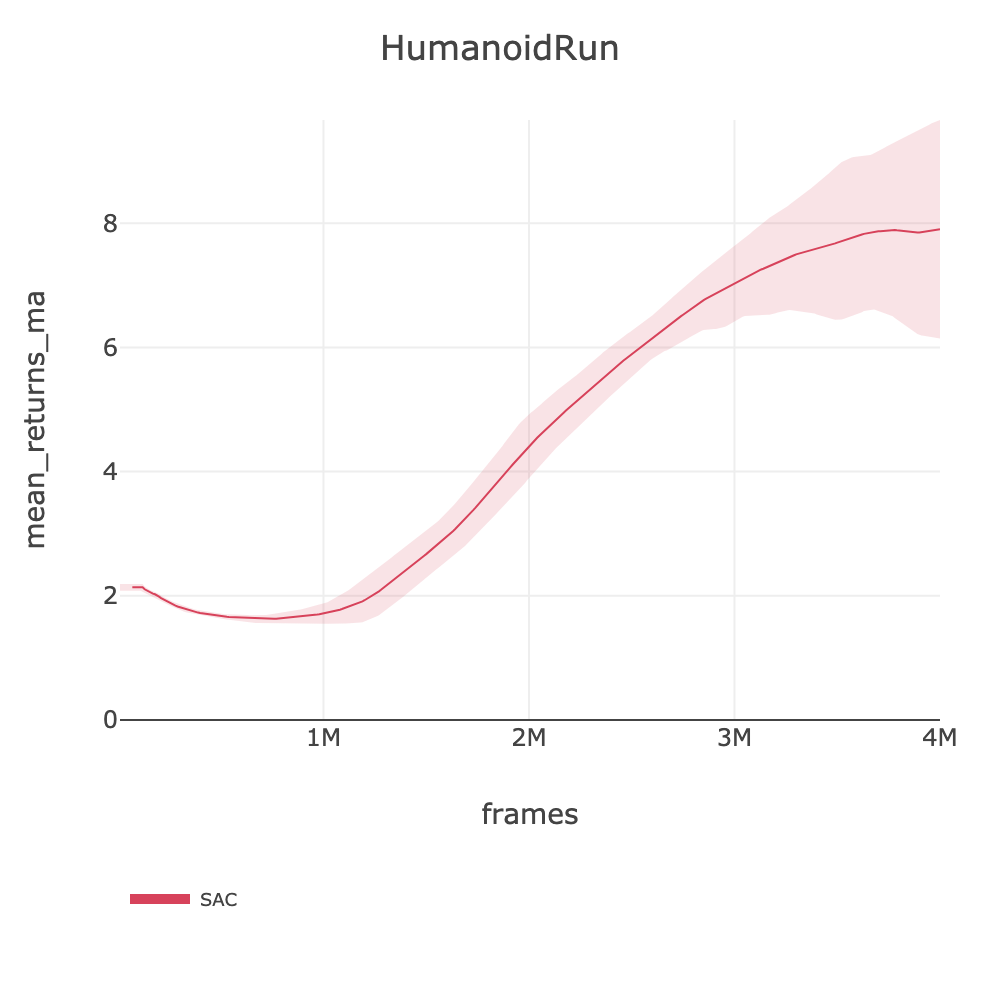
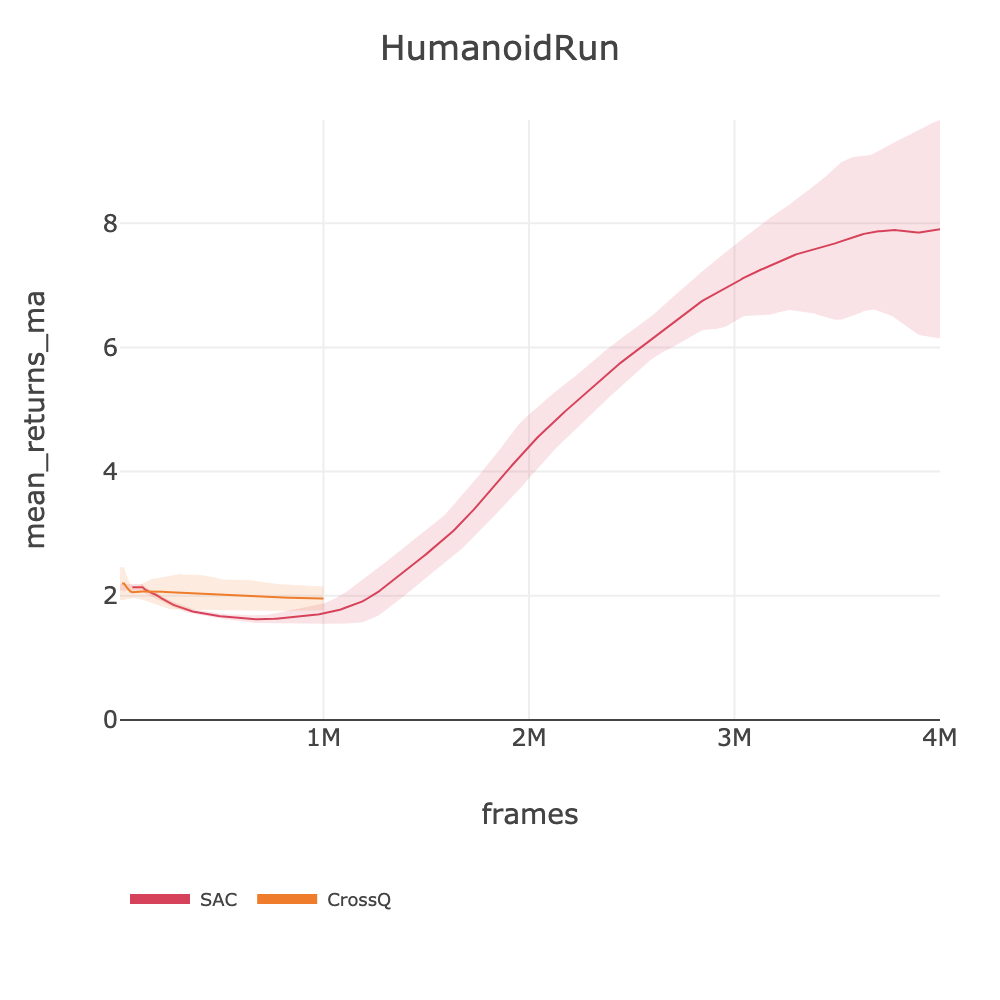
feat: Phase 5 CrossQ HumanoidRun (1.96) + updated plots

Changed region(s): [[0.124, 0.558, 0.341, 0.62], [0.248, 0.868, 0.31, 0.93], [0.341, 0.899, 0.372, 0.93]]

diff --git a/docs/BENCHMARKS.md b/docs/BENCHMARKS.md
@@ -826,7 +826,8 @@ source .env && slm-lab run-remote --gpu -s env=playground/CartpoleBalance -s max
 | playground/HopperStand | PPO | 158.28 | ~645 | ~300 (16e) | 4M | ~3.7h | [ppo_playground_arc_hopperstand_2026_03_07_124451](https://huggingface.co/datasets/SLM-Lab/benchmark-dev/tree/main/data/ppo_playground_arc_hopperstand_2026_03_07_124451) |
 | | CrossQ | 147.77 | | ~200 (hard/16e) | 2M | ~2.8h | [crossq_playground_arc_hard_hopperstand_2026_03_07_184954](https://huggingface.co/datasets/SLM-Lab/benchmark-dev/tree/main/data/crossq_playground_arc_hard_hopperstand_2026_03_07_184954) |
 | | SAC | 277.46 | | ~350 (fast/64e) | 1M | ~0.8h | [sac_playground_arc_hopperstand_2026_03_06_125934](https://huggingface.co/datasets/SLM-Lab/benchmark-dev/tree/main/data/sac_playground_arc_hopperstand_2026_03_06_125934) |
-| playground/HumanoidRun | SAC | 7.90 | ~11 | ~335 (fast/64e) | 4M | ~3.4h | [sac_playground_arc_fast_humanoidrun_2026_03_07_001036](https://huggingface.co/datasets/SLM-Lab/benchmark-dev/tree/main/data/sac_playground_arc_fast_humanoidrun_2026_03_07_001036) |
+| playground/HumanoidRun | CrossQ | 1.96 | ~11 | ~189 (vhard/16e) | 1M | ~1.5h | [crossq_playground_arc_vhard_humanoidrun_2026_03_07_210456](https://huggingface.co/datasets/SLM-Lab/benchmark-dev/tree/main/data/crossq_playground_arc_vhard_humanoidrun_2026_03_07_210456) |
+| | SAC | 7.90 | | ~335 (fast/64e) | 4M | ~3.4h | [sac_playground_arc_fast_humanoidrun_2026_03_07_001036](https://huggingface.co/datasets/SLM-Lab/benchmark-dev/tree/main/data/sac_playground_arc_fast_humanoidrun_2026_03_07_001036) |
 | playground/HumanoidStand | PPO | 11.89 | ~514 | ~300 (16e) | 4M | ~3.7h | [ppo_playground_arc_humanoidstand_2026_03_07_133528](https://huggingface.co/datasets/SLM-Lab/benchmark-dev/tree/main/data/ppo_playground_arc_humanoidstand_2026_03_07_133528) |
 | | SAC | 26.44 | | ~329 (fast/64e) | 2M | ~1.7h | [sac_playground_arc_fast_humanoidstand_2026_03_07_000958](https://huggingface.co/datasets/SLM-Lab/benchmark-dev/tree/main/data/sac_playground_arc_fast_humanoidstand_2026_03_07_000958) |
 | playground/HumanoidWalk | PPO | 5.50 | ~281 | ~300 (16e) | 4M | ~3.7h | [ppo_playground_arc_humanoidwalk_2026_03_07_133505](https://huggingface.co/datasets/SLM-Lab/benchmark-dev/tree/main/data/ppo_playground_arc_humanoidwalk_2026_03_07_133505) |
